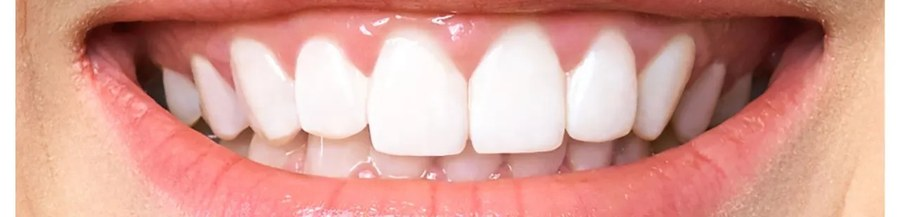
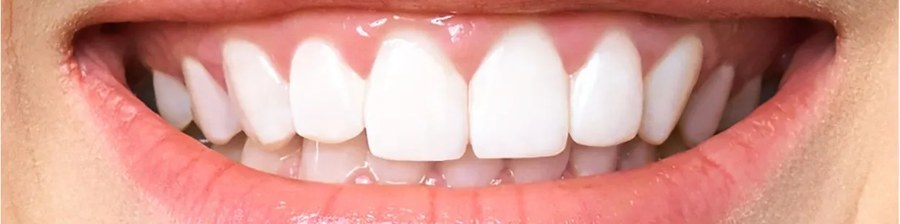
Remove white photo margin, revert labels, taller slider box
Found the actual source of "borda branca do lado": the original
composite photo had a ~20px white margin baked into both edges, which
survived every previous crop. Trimmed it out on both sides. Revert the
antes/depois label text swap from last round (client confirmed the
original — depois/white on the left — was correct all along). Also
bump the slider's aspect ratio a bit taller per request.

Claude-Session: https://claude.ai/code/session_0196v2YvyDctQPfzLVmFZjXo

diff --git a/index.html b/index.html
@@ -217,11 +217,11 @@
 
         <div class="ba-slider" id="baSlider">
           <div class="ba-panel before">
-            <span class="ba-label">Depois</span>
+            <span class="ba-label">Antes</span>
             <img src="images/ba-before.jpg" alt="Sorriso antes das lentes de contato dental em porcelana" draggable="false" />
           </div>
           <div class="ba-panel after">
-            <span class="ba-label">Antes</span>
+            <span class="ba-label">Depois</span>
             <img src="images/ba-after.jpg" alt="Sorriso depois das lentes de contato dental em porcelana" draggable="false" />
           </div>
           <div class="ba-divider" aria-hidden="true"></div>

diff --git a/style.css b/style.css
@@ -808,7 +808,7 @@ section {
   position: relative;
   max-width: 620px;
   margin: 0 auto;
-  aspect-ratio: 900 / 217;
+  aspect-ratio: 900 / 260;
   border-radius: var(--radius-md);
   overflow: hidden;
   box-shadow: var(--shadow-soft);
